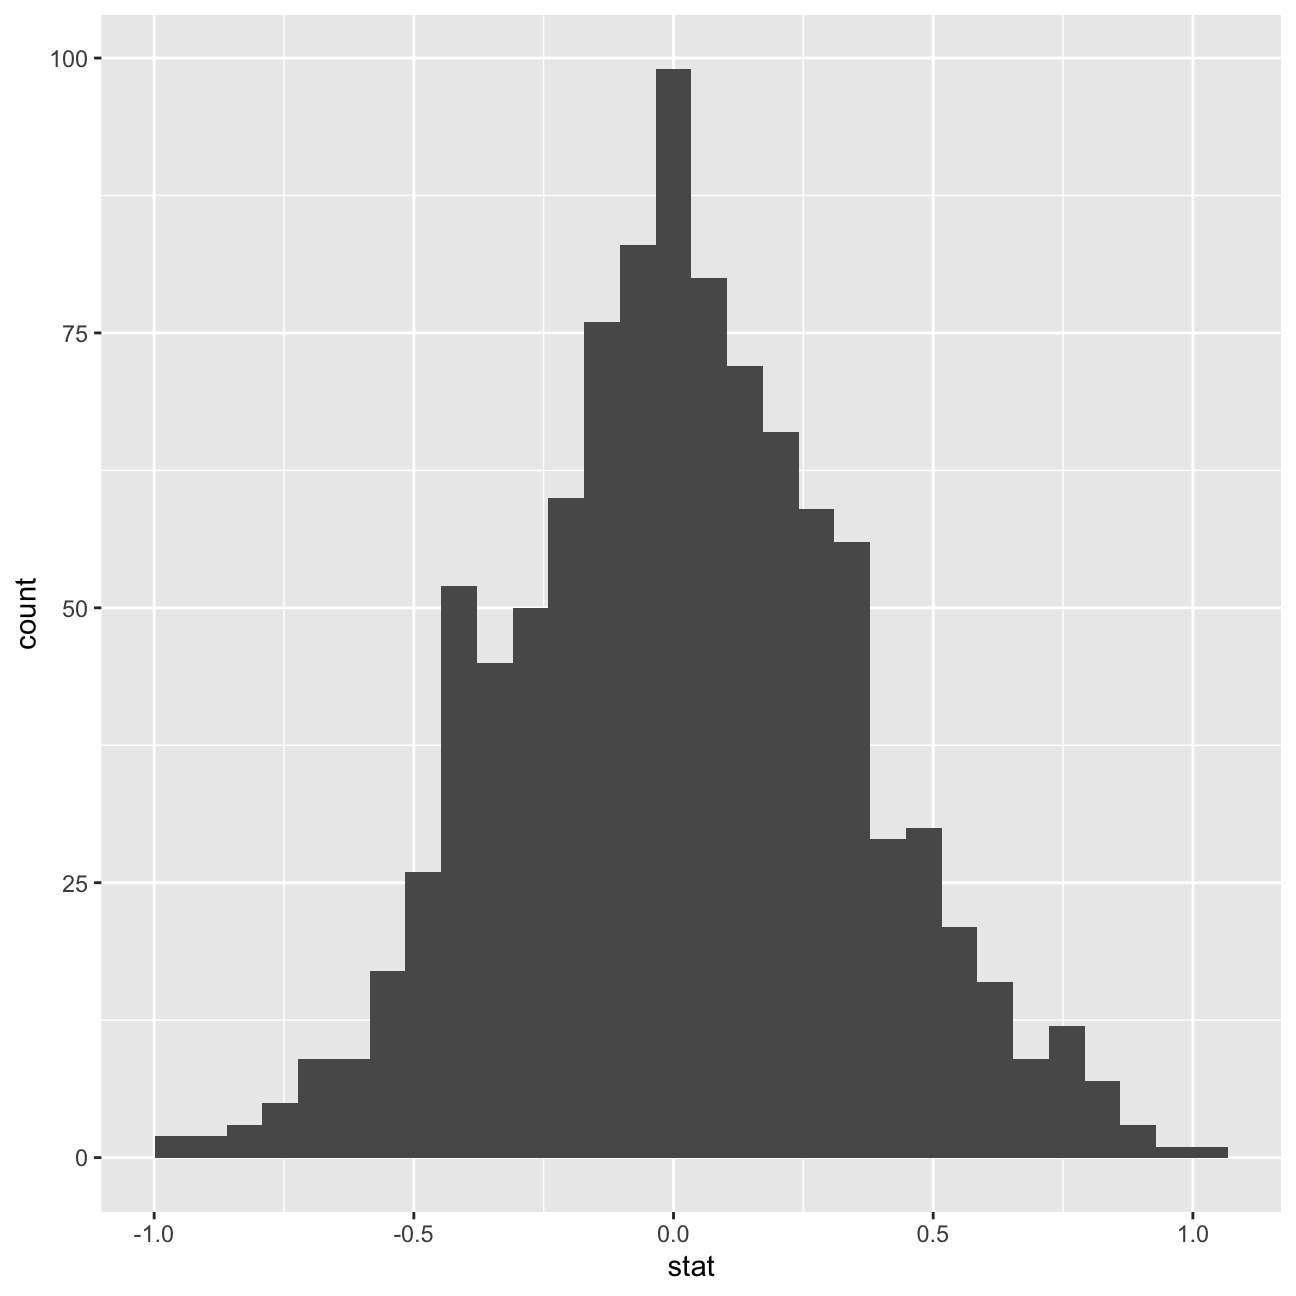
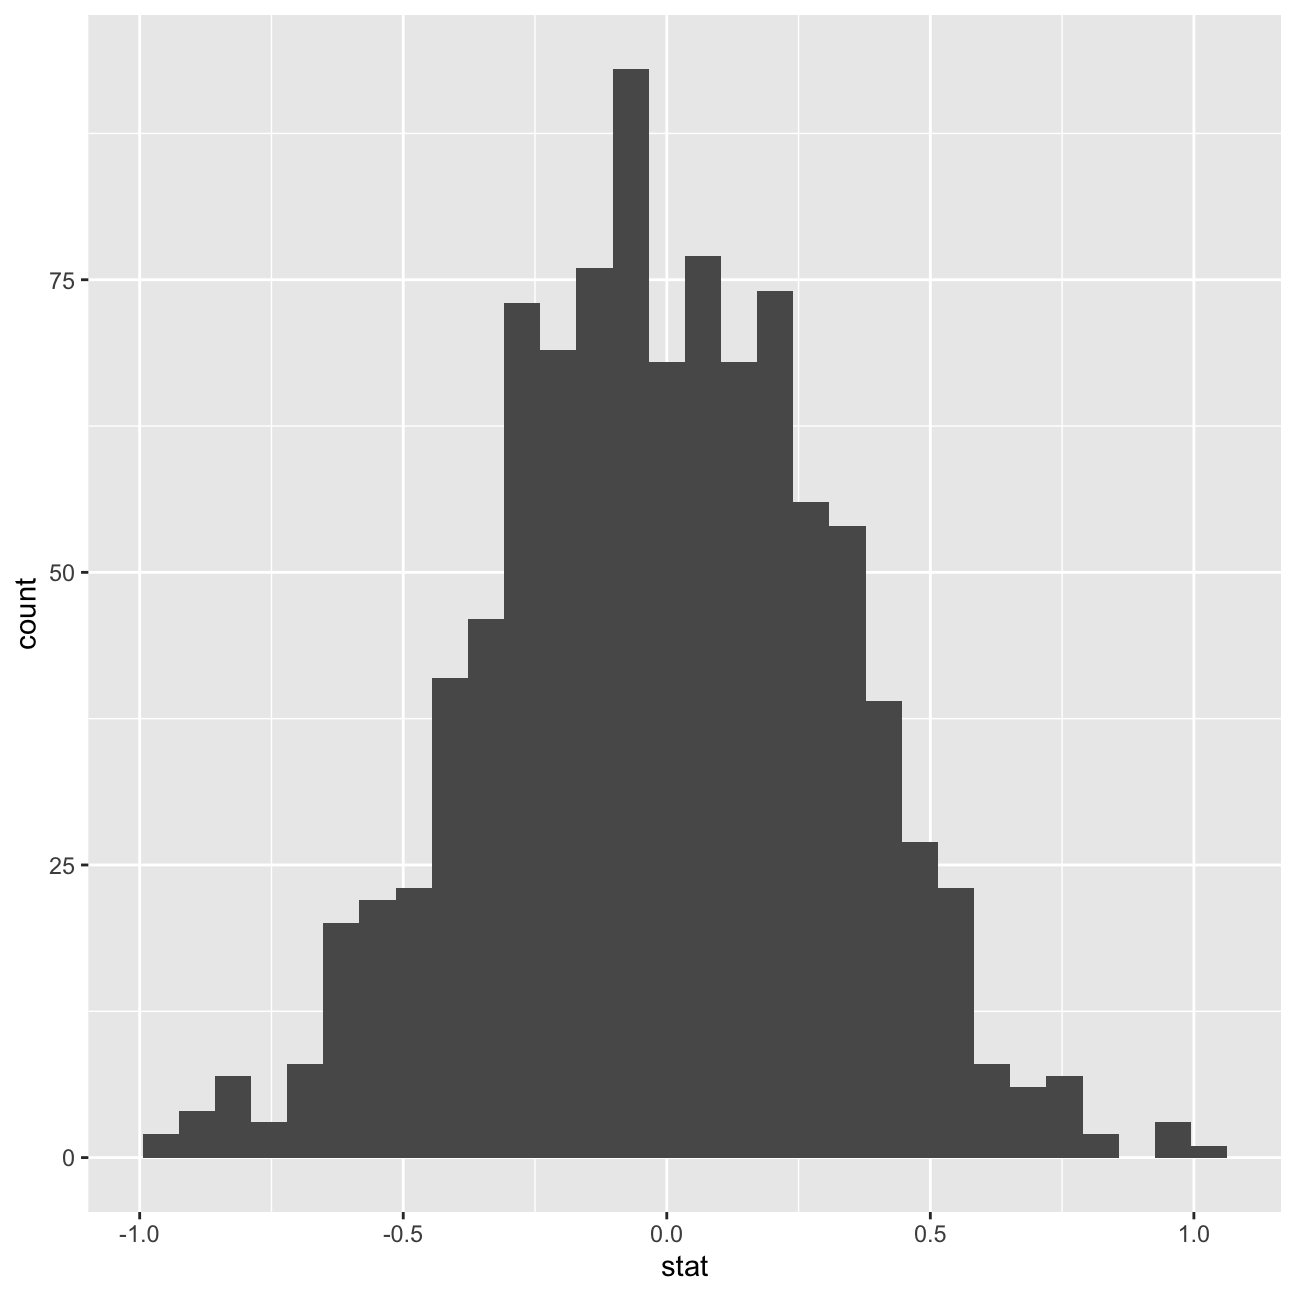
13:29

diff --git a/content/blogs/homework3.html b/content/blogs/homework3.html
@@ -1,5 +1,4 @@
 ---
-
 date: "2022-09-20"
 output:
   html_document:
@@ -13,17 +12,6 @@ output:
 
 
 
-<hr />
-<p>date: “2022-09-20”
-output:
-html_document:
-theme: flatly
-highlight: zenburn
-number_sections: yes
-toc: yes
-toc_float: yes
-code_folding: show
-—</p>
 <div id="youth-risk-behavior-surveillance" class="section level1">
 <h1>Youth Risk Behavior Surveillance</h1>
 <p>Every two years, the Centers for Disease Control and Prevention conduct the <a href="https://www.cdc.gov/healthyyouth/data/yrbs/index.htm">Youth Risk Behavior Surveillance System (YRBSS)</a> survey, where it takes data from high schoolers (9th through 12th grade), to analyze health patterns. We are working with a random sample of observations for one of the years of the survey.</p>
@@ -423,16 +411,16 @@ null_dist</code></pre>
 ## # A tibble: 1,000 × 2
 ##    replicate    stat
 ##        &lt;int&gt;   &lt;dbl&gt;
-##  1         1  0.305 
-##  2         2  0.0263
-##  3         3  0.580 
-##  4         4 -0.881 
-##  5         5  0.425 
-##  6         6 -0.205 
-##  7         7  0.506 
-##  8         8 -0.0321
-##  9         9  0.208 
-## 10        10 -0.0868
+##  1         1  0.0507
+##  2         2 -0.286 
+##  3         3 -0.155 
+##  4         4 -0.242 
+##  5         5  0.0582
+##  6         6  0.0122
+##  7         7 -0.0598
+##  8         8  0.516 
+##  9         9 -0.809 
+## 10        10  0.154 
 ## # … with 990 more rows</code></pre>
 <pre class="r"><code>visualise(null_dist) </code></pre>
 <p><img src="/blogs/homework3_files/figure-html/hypothesis_testing_using_infer_package-1.png" width="648" style="display: block; margin: auto;" /></p>
@@ -894,12 +882,4 @@ tidy_GDP_data_countrywise</code></pre>
 <p>There is a percentage difference of 35.1% for Germany, 26.3% for India and 19.9% for United States</p>
 <p><img src="../../images/gdp2.png" width="100%" style="display: block; margin: auto;" /></p>
 <p>In Germany we can see a downward trend in household expenditure and gross capital formation. The net exports have increased starting 2020 and government expenditure has almost remained the same with slight changes in the middle. In India household expenditure has decreased drasitically, by more than 10%. On the oppostie, gross capital formation has seen rapid increase specially after the year 2000. Net exports and Government expenditure have stayed the same over the years. In the United states, Government expenditure has seen the most change, it has decreased by more than 5%. Net exports have reduced by about 1-2%, while both gross capital formation household expenditure have increased by approximately 2.5%. India has the highest levels of gross capital formation and the lowest government expenditure.</p>
-</div>
-<div id="details" class="section level1">
-<h1>Details</h1>
-<ul>
-<li>Who did you collaborate with: Samarth Sharma, Vivian van Oosten, Anastasia Fu, Jaelyn Shi, Andrew Robak, Shivant Maharaj</li>
-<li>Approximately how much time did you spend on this problem set: 12 hours</li>
-<li>What, if anything, gave you the most trouble: -</li>
-</ul>
 </div>

diff --git a/content/blogs/homework2.html b/content/blogs/homework2.html
@@ -1,7 +1,6 @@
 ---
 title: "Session 4: Homework 2"
-author: "Group 6: Sonakshi Gupta, Jean Francois Peters, Wybe Harms, Drishti Goyal, Suzy Wang, Zezhou Tang"
-date: "2022-09-15"
+date: "2022-09-20"
 output:
   html_document:
     theme: flatly
@@ -608,49 +607,4 @@ ggplot(z, aes(percentage, value_co2, color=income_level)) +
   ease_aes(&#39;linear&#39;) + 
   theme(legend.position = &quot;none&quot;)</code></pre>
 <pre><code>## NULL</code></pre>
-</div>
-<div id="deliverables" class="section level1">
-<h1>Deliverables</h1>
-<p>As usual, there is a lot of explanatory text, comments, etc. You do not
-need these, so delete them and produce a stand-alone document that you
-could share with someone. Knit the edited and completed R Markdown file
-as an HTML document (use the “Knit” button at the top of the script
-editor window) and upload it to Canvas.</p>
-</div>
-<div id="details" class="section level1">
-<h1>Details</h1>
-<ul>
-<li>Who did you collaborate with: <strong>Group 6 - Sonakshi Gupta, Jean
-Francois Peters, Wybe Harms, Drishti Goyal, Suzy Wang, Zezhou Tang</strong></li>
-<li>Approximately how much time did you spend on this problem set: <strong>6
-hrs 20 min 33 seconds</strong></li>
-<li>What, if anything, gave you the most trouble: <strong>Creating coloured
-ribbons for the graphs</strong></li>
-</ul>
-<p><strong>Please seek out help when you need it,</strong> and remember the <a href="https://mam202.netlify.app/syllabus/#the-15-minute-rule" target="_blank">15-minute
-rule</a>.
-You know enough R (and have enough examples of code from class and your
-readings) to be able to do this. If you get stuck, ask for help from
-others, post a question on Slack– and remember that I am here to help
-too!</p>
-<blockquote>
-<p>As a true test to yourself, do you understand the code you submitted
-and are you able to explain it to someone else?</p>
-</blockquote>
-</div>
-<div id="rubric" class="section level1">
-<h1>Rubric</h1>
-<p>Check minus (1/5): Displays minimal effort. Doesn’t complete all
-components. Code is poorly written and not documented. Uses the same
-type of plot for each graph, or doesn’t use plots appropriate for the
-variables being analyzed.</p>
-<p>Check (3/5): Solid effort. Hits all the elements. No clear mistakes.
-Easy to follow (both the code and the output).</p>
-<p>Check plus (5/5): Finished all components of the assignment correctly
-and addressed both challenges. Code is well-documented (both
-self-documented and with additional comments as necessary). Used
-tidyverse, instead of base R. Graphs and tables are properly labelled.
-Analysis is clear and easy to follow, either because graphs are labeled
-clearly or you’ve written additional text to describe how you interpret
-the output.</p>
 </div>
